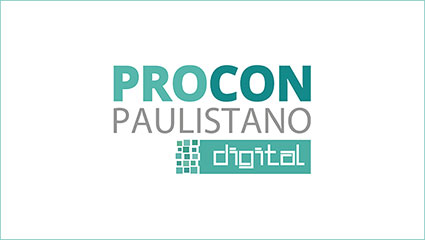
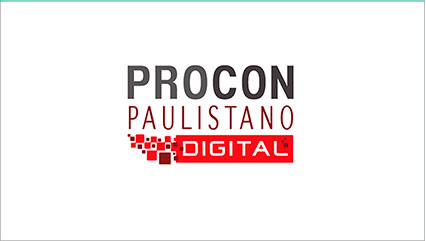
adaptação do css para o novo layout

Changed region(s): [[0.2441, 0.2614, 0.7324, 0.7261], [0.0, 0.9876, 1.0, 1.0], [0.0, 0.0, 1.0, 0.029]]

diff --git a/src/procon/tema/themes/procon/css/main.css b/src/procon/tema/themes/procon/css/main.css
@@ -88,7 +88,7 @@ body{
   -webkit-border-radius: 3px;
   -moz-border-radius: 3px;
   border-radius: 3px;
-  background: url('../img/icoBusca.png') no-repeat #128a89 12px 8px;
+  background: url('../img/icoBusca.png') no-repeat #710e0f 12px 8px;
   color: #fff;
   padding: 0px 18px 0 23px;
   border: none;
@@ -102,32 +102,32 @@ body{
   text-indent: -9999px;
 }
 #portal-header .social{
-  width: 140px;
+  width: 144px;
   height: 50px;
   float: left;
   margin-left: 90px;
-  margin-top: 20px;
+  margin-top: 15px;
 }
 #portal-header .social li{
   margin-left: 5px;
 }
 #portal-header .faceSocial a{
   background: url('../img/icoFacebook.png') no-repeat;
-  width: 30px;
-  height: 29px;
+  width: 39px;
+  height: 39px;
   float: left;
 }
 #portal-header .twitterSocial a{
   background: url('../img/icoTwitter.png') no-repeat;
-  width: 30px;
-  height: 29px;
+  width: 39px;
+  height: 39px;
   float: left;
   margin-left: 5px;
 }
 #portal-header .youtubeSocial a{
   background: url('../img/icoYoutube.png') no-repeat;
-  width: 30px;
-  height: 29px;
+  width: 39px;
+  height: 39px;
   float: left;
   margin-left: 5px;
 }
@@ -149,7 +149,7 @@ body{
   float: left;
   width: 100%;
   height: 48px;
-  background: #f21c30;
+  background: #3f393b;
 }
 #portal-header nav.menu li{
   display: inline;
@@ -722,63 +722,63 @@ body.userrole-authenticated .listaHome{
   list-style: none;
 }
 #content .listaHome ul li a{
-  text-align: center;
-  float: left;
-  color: #128a89;
-  font-family: 'Roboto', Arial;
-  font-size: 1.1em;
-  width: 100%;
-  background-position: 40px 0;
-  border-bottom: none;
-  padding: 230px 0 0 0;
-  margin: -230px 0 0 0;
+    text-align: center;
+    float: left;
+    color: #fff;
+    text-transform: uppercase;
+    font-family: 'Roboto', Arial;
+    font-size: 1.4em;
+    width: 100%;
+    background-position: 40px 0;
+    border-bottom: none;
+    padding: 230px 0 0 0;
+    margin: -323px 0 0 5px;
+    font-weight: 500;
+    line-height: 1.5em;
 }
 #content .listaHome ul li:hover a{
-  color: #128a89 !important;
+  color: #fff !important;
 }
 
 .listaHome ul li .item1{
-  background:url(../img/icoRec.png) no-repeat center 50px #128a89;
-    -webkit-border-radius: 50%;
-  -moz-border-radius: 50%;
-  border-radius: 50%;
+  background:url(../img/icoRec.png) no-repeat center 16px #710e0f;
+-webkit-border-radius: 15px;
+-moz-border-radius: 15px;
+border-radius: 15px;
   float: left;
   width: 200px;
   height: 200px;
   margin: 0 0 18px 30px;
 }
 .listaHome ul li .item2{
-  background:url(../img/icoDuv.png) no-repeat center 50px #128a89;
-    -webkit-border-radius: 50%;
-  -moz-border-radius: 50%;
-  border-radius: 50%;
+  background:url(../img/icoDuv.png) no-repeat center 16px #710e0f;
+-webkit-border-radius: 15px;
+-moz-border-radius: 15px;
+border-radius: 15px;
   float: left;
   width: 200px;
   height: 200px;
   margin: 0 0 18px 30px;
 }
 .listaHome ul li .item3{
-  background:url(../img/icoFund.png) no-repeat center 50px #128a89;
-    -webkit-border-radius: 50%;
-  -moz-border-radius: 50%;
-  border-radius: 50%;
+  background:url(../img/icoFund.png) no-repeat center 16px #710e0f;
+-webkit-border-radius: 15px;
+-moz-border-radius: 15px;
+border-radius: 15px;
   float: left;
   width: 200px;
   height: 200px;
   margin: 0 0 18px 30px;
 }
 .listaHome ul li .item4{
-  background:url(../img/icoDenuncia.png) no-repeat center 50px #128a89;
-    -webkit-border-radius: 50%;
-  -moz-border-radius: 50%;
-  border-radius: 50%;
+  background:url(../img/icoDenuncia.png) no-repeat center 16px #710e0f;
+-webkit-border-radius: 15px;
+-moz-border-radius: 15px;
+border-radius: 15px;
   float: left;
   width: 200px;
   height: 200px;
   margin: 0 0 18px 30px;
-}
-.listaHome ul li:hover{
-  background: #ffd7d7;
 }
 .destaqueHome{
   float:left;
@@ -854,7 +854,7 @@ body.userrole-authenticated .listaHome{
   margin: 0;
 }
 .divNoticias{
-  background: #f21c30;
+  background: #3f393b;
   width: 100%;
   float: left;
   clear: both;
